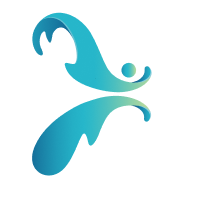
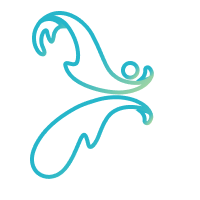
bug fixes
logo crop
para center
read btn left
logo outline

Changed region(s): [[0.15, 0.03, 0.78, 0.9]]

diff --git a/index.html b/index.html
@@ -74,7 +74,7 @@
     <!-- Home -->
     <div class="landing">
         <div class="logo">
-            <img src="./assets/img/png/excel_logo.png" alt="Excel Logo">
+            <img src="./assets/img/png/excel_logo_crop.png" alt="Excel Logo">
         </div>
     </div>
 
@@ -90,7 +90,7 @@
                     Tomorrow), Untitled and .ISSUE!, Excel conducts online competitions, workshops, talks and seminars,
                     video conferences, exhibitions and pro shows. Excel also provides a platform for reputed companies
                     to harness the skills and abilities of the brightest minds in the state.</div>
-                <a href="https://drive.google.com/file/d/1rKsWNL0592NYezDr2PUm8SA8Q2GUhvy-/view?usp=sharing" target="_blank">
+                <a href="https://drive.google.com/file/d/1nLESA404dYOV5Bf5FqqjgnRugWcKgfNk/view?usp=sharing" target="_blank">
                     <div class="read-btn">Read the Brochure</div>
                 </a>
             </div>

diff --git a/assets/css/about.css b/assets/css/about.css
@@ -36,7 +36,7 @@
     color: var(--font-color);
     display: flex;
     flex-direction: column;
-    align-items: center;
+    align-items: flex-start;
     gap: 3rem;
 }
 
@@ -53,10 +53,6 @@
     .about .container .content {
         width: 600px;
         color: var(--font-color);
-        display: flex;
-        flex-direction: column;
-        align-items: center;
-        gap: 3rem;
     }
 
 }
@@ -65,6 +61,9 @@
     .section.about .container {
         flex-direction: column-reverse;
         gap: 1rem;
+    }
+    .about .container .content {
+        align-items: center;
     }
 }
 

diff --git a/assets/css/associate.css b/assets/css/associate.css
@@ -61,6 +61,8 @@
     opacity: 0.9;
     height: 100px;
     cursor: pointer;
+    text-align: center;
+
 }
 
 /* @media (min-width: 700px) {
